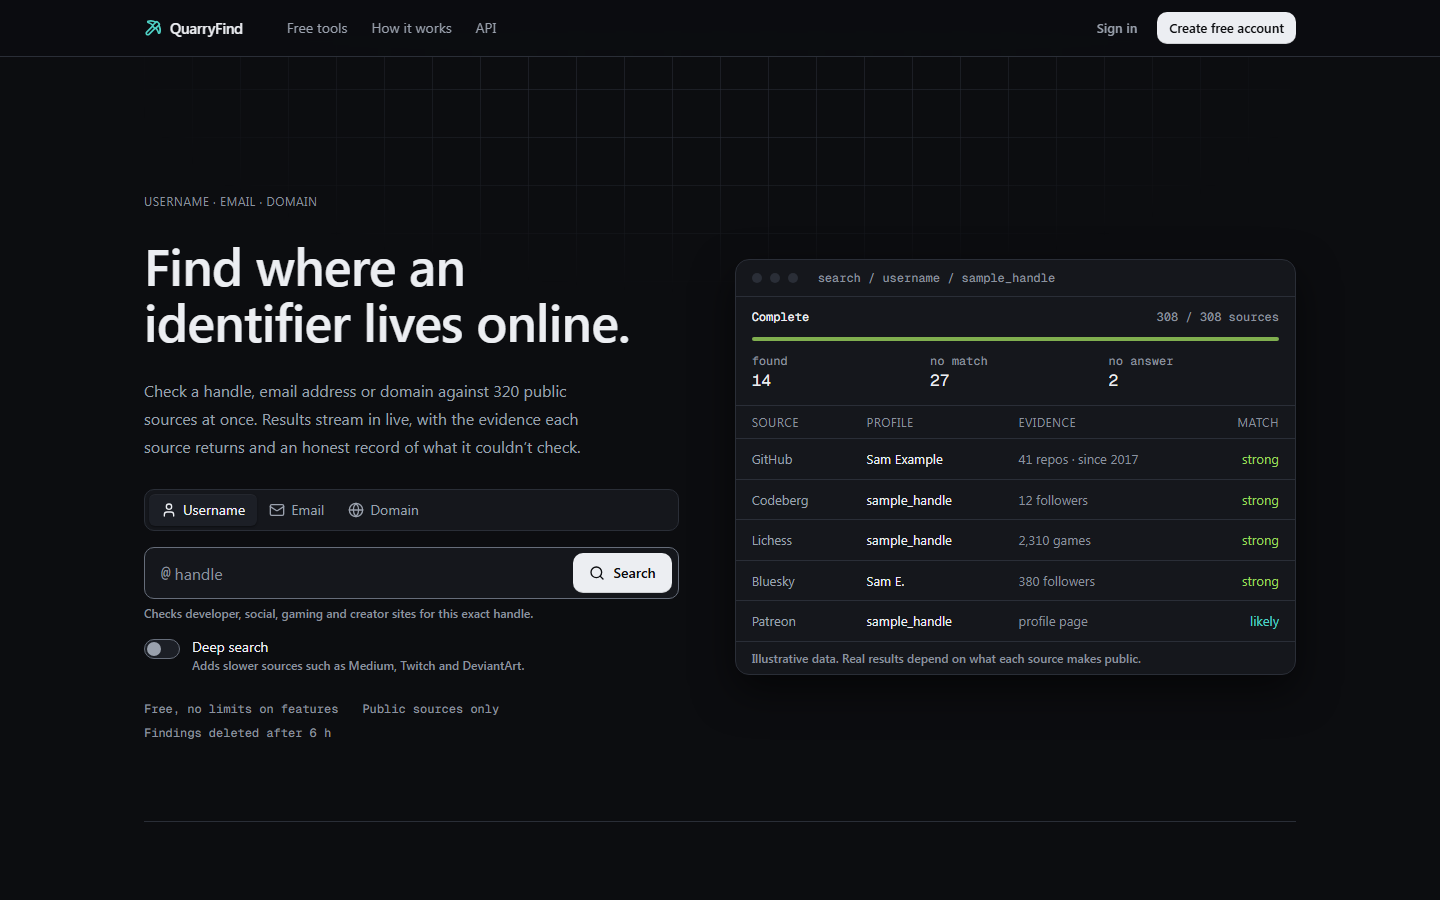
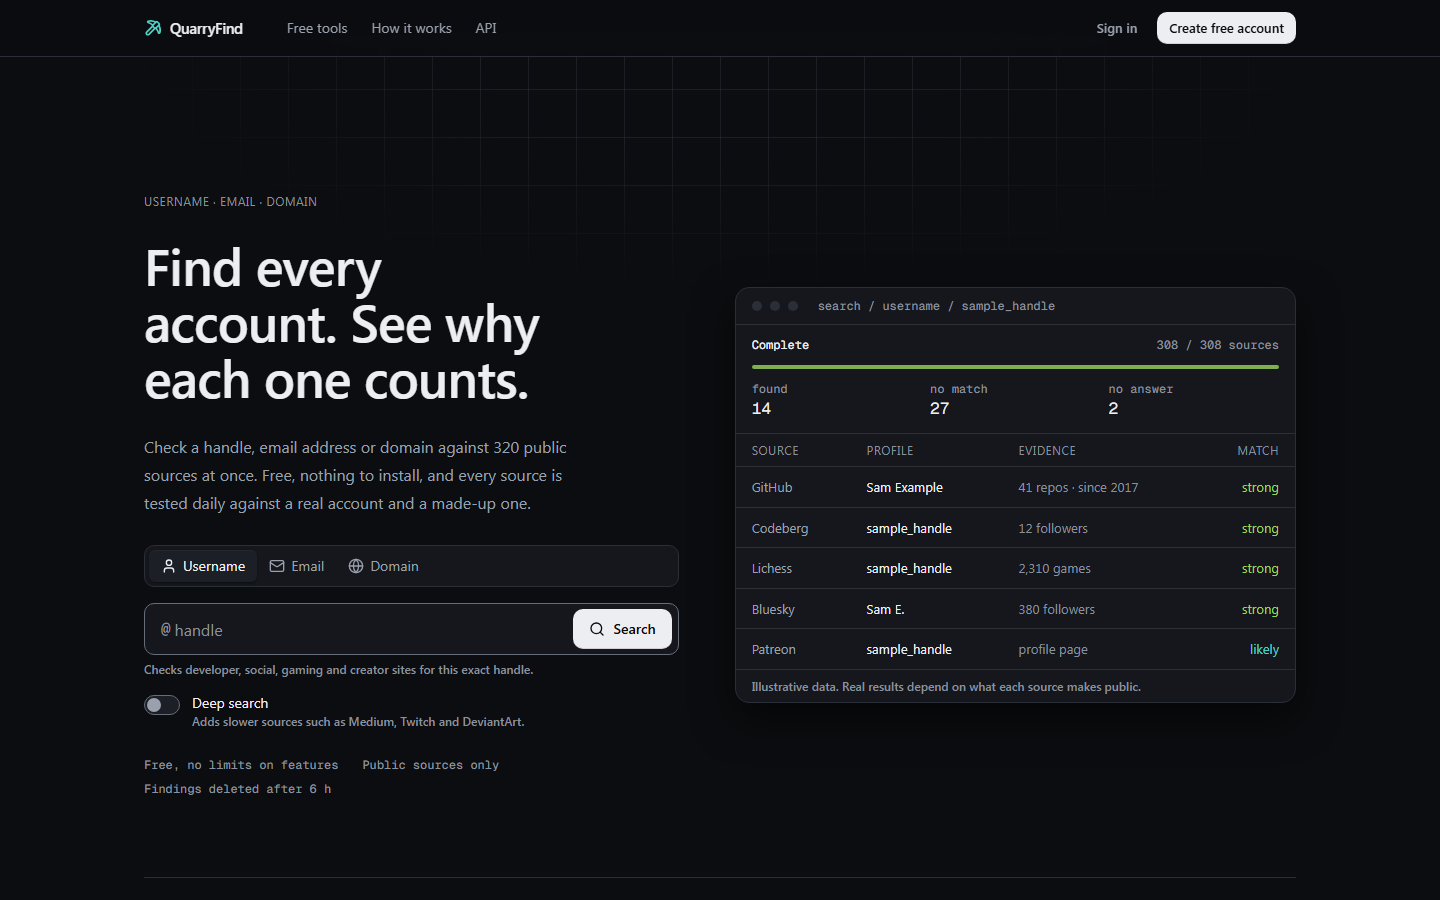
launch: landing leads with the angle (problem, what's different, price), pricing/listing/launch plan docs; listing.py passes

diff --git a/web/src/app/page.tsx b/web/src/app/page.tsx
@@ -13,10 +13,16 @@ const CATEGORY_LABEL: Record<string, string> = {
   identity: "Identity", security: "Security",
 };
 
+const PROBLEMS: [string, string][] = [
+  ["“Found” when nothing is there", "Many username checkers count a page that loaded as an account, so login walls, soft 404s and bot checks show up as matches."],
+  ["Checks that quietly break", "Sites change their pages and APIs. A check that stopped working looks exactly like “no account”, and nobody tells you which is which."],
+];
+
 const PRINCIPLES: [string, string][] = [
-  ["Three outcomes, never two", "Every source ends as found, no match, or didn’t answer. A blocked, rate-limited or timed-out source is reported as unknown, so a short list never pretends to be a clean one."],
-  ["Evidence on the card", "Where a source publishes them, you get the display name, avatar, bio, counts and join date next to the link, so you can compare accounts before you connect them."],
-  ["Checked against fixtures", "Each source is tested daily with a known account and a made-up one. Sources that drift are switched off rather than left to produce false positives."],
+  ["Why this counts, on every result", "Each finding says what matched: the site’s own API, a marker that only real profiles have, or the site’s proper not-found answer. You can judge the evidence instead of trusting a checkmark."],
+  ["Checked daily, in public", "Every source is tested each day against an account that exists and a name that doesn’t. Sources that get it wrong are switched off, and the live status of all of them is on a public page."],
+  ["Didn’t answer is not “no account”", "Every source ends as found, no match, or didn’t answer. A blocked or timed-out source is reported as unknown, so a short list never pretends to be a clean one."],
+  ["Report a wrong result", "Spot a match that isn’t real, or a miss? One click sends it in, and that source is re-checked."],
   ["Short memory by design", "Findings are deleted six hours after a search; history after 90 days. What you need to keep goes into a private case, with your notes."],
 ];
 
@@ -91,11 +97,11 @@ export default function Home() {
         <section className="relative grid items-center gap-14 pb-20 pt-16 lg:grid-cols-[1fr_1.05fr] lg:pt-24">
           <div className="flex flex-col gap-7">
             <p className="eyebrow">Username · Email · Domain</p>
-            <h1 className="max-w-[19ch] text-[2.5rem] font-semibold leading-[1.08] text-text sm:text-[3.25rem]">
-              Find where an identifier lives online.
+            <h1 className="max-w-[24ch] text-[2.5rem] font-semibold leading-[1.08] text-text sm:text-[3.25rem]">
+              Find every account. See why each one counts.
             </h1>
             <p className="max-w-[52ch] text-base leading-7 text-text-muted">
-              Check a handle, email address or domain against {SOURCES.length} public sources at once. Results stream in live, with the evidence each source returns and an honest record of what it couldn’t check.
+              Check a handle, email address or domain against {SOURCES.length} public sources at once. Free, nothing to install, and every source is tested daily against a real account and a made-up one.
             </p>
             <div className="w-full max-w-xl"><SearchForm hero /></div>
             <ul className="flex flex-wrap gap-x-6 gap-y-2 font-mono text-xs text-text-subtle">
@@ -106,7 +112,15 @@ export default function Home() {
         </section>
       </div>
 
-      <Section id="h-principles" label="Method" title="Built to be checked, not trusted" intro="A search tool is only as good as its misses. These are the rules every source follows.">
+      <Section id="h-problem" label="The problem" title="Most lookups can’t tell you how sure they are">
+        <dl className="grid gap-px overflow-hidden rounded-lg border border-border bg-border sm:grid-cols-2">
+          {PROBLEMS.map(([t, b]) => (
+            <div key={t} className="bg-surface p-6"><dt className="text-base font-medium text-text">{t}</dt><dd className="mt-2 text-sm leading-6 text-text-muted">{b}</dd></div>
+          ))}
+        </dl>
+      </Section>
+
+      <Section id="h-principles" label="What’s different" title="Built to be checked, not trusted" intro="A search tool is only as good as its misses. These are the rules every source follows.">
         <dl className="divide-y divide-border border-y border-border">
           {PRINCIPLES.map(([t, b]) => (
             <div key={t} className="grid gap-2 py-6 sm:grid-cols-[220px_1fr] sm:gap-8">
@@ -115,7 +129,10 @@ export default function Home() {
             </div>
           ))}
         </dl>
-        <Link href="/how-it-works/" className="mt-6 inline-flex items-center gap-1 text-sm text-accent hover:underline">Read the full method <ArrowRight className="size-3.5" aria-hidden /></Link>
+        <div className="mt-6 flex flex-wrap gap-6">
+          <Link href="/sources/" className="inline-flex items-center gap-1 text-sm text-accent hover:underline">See today’s source status <ArrowRight className="size-3.5" aria-hidden /></Link>
+          <Link href="/how-it-works/" className="inline-flex items-center gap-1 text-sm text-accent hover:underline">Read the full method <ArrowRight className="size-3.5" aria-hidden /></Link>
+        </div>
       </Section>
 
       <Section id="h-sources" label="Coverage" title={`${SOURCES.length} sources, listed`} intro="Every count is generated from the code that runs your search. Open a category to see each source.">
@@ -161,6 +178,10 @@ export default function Home() {
         <div className="mt-6 flex flex-wrap gap-3">
           <LinkButton href="/docs/api/" variant="secondary" icon={<ArrowUpRight className="size-4" aria-hidden />}>API reference</LinkButton>
         </div>
+      </Section>
+
+      <Section id="h-price" label="Price" title="Free. No plans, no credits, no trial.">
+        <p className="max-w-[60ch] text-sm leading-6 text-text-muted">Every search type, deep search, the API and every tool cost nothing. The only limits are there to stop abuse and keep sources from blocking us: 10 searches a minute, 3 running at once.</p>
       </Section>
 
       <section className="border-t border-border py-20">

diff --git a/replica/launch/pricing.md b/replica/launch/pricing.md
@@ -1,0 +1,39 @@
+# Pricing
+
+**Decision (user, 2026-10-09): free and unlimited.** No plans, no credits, no paywalls. Rate limits exist only for abuse protection: 10 searches/min on the web, 60/min on the API, 3 running at once, 30 tool calls/min.
+
+## The market
+
+| product | price | what you get | source, date read |
+| --- | --- | --- | --- |
+| The original (hosted OSINT search) | $14.99 / $24.99 / $49.99 per month | 25 / 75 / 150 searches a month; deep search from the middle tier; API only on the top tier, plus prepaid API credits from $20 for 50 | its public pricing section, 2026-10-09 |
+| Epieos | €29.99 / month | 30 full-access requests a month | [ShadowDragon guide](https://shadowdragon.io/?p=8054) (secondary source), 2026-10-09; check the vendor before quoting |
+| Sherlock, Maigret, WhatsMyName (open source) | free | CLI or self-hosted; install and maintenance are yours | project repositories |
+| **QuarryFind** | **free** | every search type, deep search, API, all tools | — |
+
+## What the evidence says about price
+
+`feedback.md` has no price complaints, because the sample is open-source tool users (0 price-themed items). The case for free is positioning, not reviews: the hosted competitor starts at $14.99 for 25 searches, and the open-source tools are free but need an install (13 install/error items, 2 sources).
+
+## How free stays free
+
+On the free tiers:
+- **Cloudflare Pages:** static site, unlimited requests.
+- **Supabase Free:** Postgres 500 MB. Findings are purged after 6 h and history after 90 days, so the database stays small.
+- **Edge Functions:** 500k invocations a month. One username search is about 21 batches plus start, so roughly 22 calls; that's about **22,000 searches a month** before the limit.
+- **Realtime:** 2M messages and 200 concurrent connections.
+
+Watch the Supabase usage page monthly. The first limit hit will be Edge Function invocations. Options then:
+1. Bigger batches, once hosted CPU is measured.
+2. Supabase Pro ($25/month). **Ask the user before spending.**
+3. Donations or sponsorship (GitHub Sponsors is free to set up).
+
+The free tier pauses projects after a week of inactivity, which won't happen with real traffic. Noted in `deploy.md`.
+
+## Billing complaints to design out
+
+None apply: there's no billing. Account deletion is one click in Settings and deletes everything.
+
+## Stripe
+
+Not used. No products or prices to create.

diff --git a/replica/launch/launch-plan.md b/replica/launch/launch-plan.md
@@ -1,0 +1,33 @@
+# Launch plan
+
+## Before launch
+
+- [ ] Deploy (replica-deploy): Cloudflare Pages + Supabase project. The user creates both accounts (free).
+- [ ] Error tracking: Sentry via the GitHub Student Pack (user claims the offer). Add the DSN to the site and functions.
+- [ ] Privacy-friendly analytics: Cloudflare Web Analytics (free, no cookies), so no consent banner is needed.
+- [ ] Module health Action live (repo secrets `SUPABASE_URL`, `SUPABASE_SERVICE_ROLE_KEY`, `FIXTURES_GITHUB_TOKEN`).
+- [ ] Hosted performance check: run 10 username searches on the real Supabase project and record batch CPU and time in `deploy.md`.
+- [ ] Waitlist: none needed. It's free, so sign-up *is* the list.
+- [ ] Trademark screening for "QuarryFind" (USPTO / EUIPO / WIPO), marked "to run" in `brand.md`.
+- [ ] Legal pages reviewed (terms and privacy are drafts); list Supabase, Cloudflare and Resend as processors.
+
+## Where the users are
+
+From the research: people who file false-positive and "not working" issues on Sherlock, Maigret and WhatsMyName, and OSINT communities. Don't post in those projects' issue trackers; that's spam. Instead:
+- **Show HN.** "Show HN: QuarryFind – free username/email/domain OSINT where every source is tested daily". Lead with the fixture-checked status page and "why this counts", not the feature list.
+- **OSINT communities** where self-promotion is allowed (check each one's rules first): r/OSINT, OSINT newsletters, the OSINT Curious and Trace Labs communities.
+- **Directories:** CybersecTools, Cyber Vendor Guide, AlternativeTo (category "OSINT"), and awesome-osint lists via pull request.
+- **Contributing back:** WhatsMyName fixes. Our daily fixtures find drifted checks, and sending upstream PRs is honest and earns credibility (CC BY-SA requires share-alike anyway).
+
+## The first 10 users to talk to by hand
+
+Journalists and researchers who teach OSINT, small trust-and-safety teams, and CTF/Trace Labs participants. Ask each one:
+1. What do you check first?
+2. Where did a tool mislead you?
+3. What did you do when a source didn't answer?
+
+## After launch
+
+- Weekly: read the reports per source (`result_reports`) and fix or switch off drifting modules.
+- Monthly: check Supabase usage against the free limits (see `pricing.md`).
+- Monthly: re-import WhatsMyName (`scripts/wmn-import.ts`); only sources that pass fixtures get in.

diff --git a/replica/launch/landing.md b/replica/launch/landing.md
@@ -1,0 +1,25 @@
+# Landing page (built in `web/src/app/page.tsx`)
+
+Angle: **verified, free, no install.** Brand voice: plain, exact, calm. No testimonials, user counts, logos or reviewer quotes. The proof is the public source status page, which is real data.
+
+1. **Hero.** Headline: "Find every account. See why each one counts." Sub-line: free, no install, 320 sources checked daily. One action: the search box itself. Visual: a product panel showing a finished search.
+2. **The problem** (paraphrased from the top two themes, no quotes):
+   - Username tools often say "found" when there's nothing there.
+   - Their checks quietly break as sites change, and a blocked check looks the same as "no account".
+3. **How it works.** Three steps:
+   1. Enter what you have.
+   2. Every source answers live.
+   3. Verify and keep what holds up.
+4. **What's different.** Leads with the fixes:
+   - "Why this counts" on every result (fix #1).
+   - Daily fixture checks plus the public status page (fix #3).
+   - Report a wrong result (fix #2).
+   - Didn't answer is never "no account".
+
+   Then parity: domain and email search, cases, export, tools, free API.
+5. **Coverage.** Counts per category, with every source listable (real data from the engine).
+6. **Price.** "Free. No plans, no credits, no trial." Plus a one-line note on abuse limits.
+7. **FAQ.** Omitted: the user asked for no FAQ.
+8. **Final call to action.** "Investigate responsibly" and "Create a free account".
+
+Contrast: page tokens checked, 0 AA failures. axe runs on `/` in e2e (desktop and mobile).

diff --git a/replica/autopilot.md b/replica/autopilot.md
@@ -11,8 +11,8 @@
 
 ## Run
 - Command: /autopilot fullreplica (through deploy; deploy still needs the user's go)
-- Stage reached: 9 replica-brand ✅ (QuarryFind; teal palette 0 AA failures; sweep clean; 49/49 e2e)
-- Next: 10 replica-launch → 11 deploy (needs user go + free Supabase/Cloudflare accounts; trademark checks still to run)
+- Stage reached: 10 replica-launch ✅ (landing on angle, pricing=free documented, listing.py 0 errors, launch plan)
+- Next: 11 replica-deploy: preflight here; going live needs user GO + free Supabase & Cloudflare accounts created by user
 
 ## How to run locally
 - e2e: `NEXT_DIST_DIR=.next-build npm --prefix web run build` then `npx playwright test` (serves web/.next-build on 4317). Only ONE Playwright run at a time.
